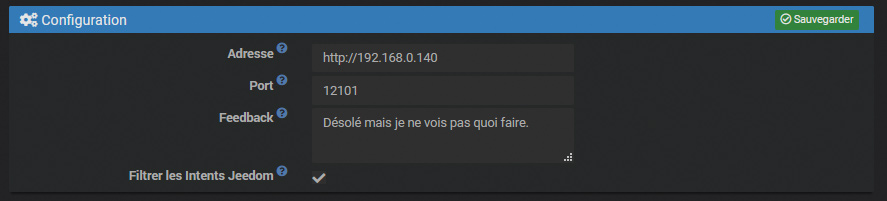
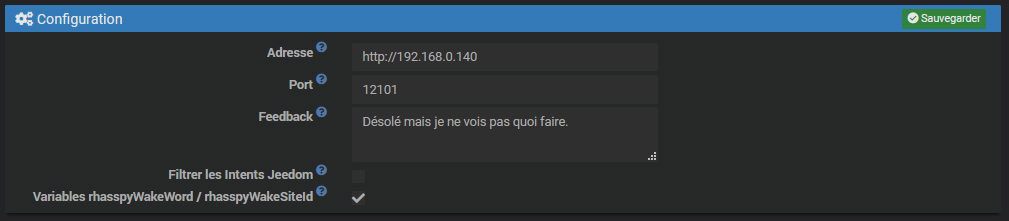
jeerhasspy beta

diff --git a/plugins/jeerhasspy/fr_FR/index.md b/plugins/jeerhasspy/fr_FR/index.md
@@ -17,36 +17,36 @@ Vous devez au préalable avoir un système Rhasspy fonctionnel !
 Après installation du plugin, il vous suffit de l’activer.
 Il apparaîtra alors dans le menu *Plugins > Communication*.
 
-Vous devez d'abord renseigner sur la page de configuration:
+Vous devez alors renseigner, sur la page de configuration du plugin :
 
 {% include lightbox.html src="jeerhasspy/images/config.jpg" data="jeerhasspy" title="Configuration" imgstyle="width:550px;display: block;margin: 0 auto;" %}
 
-
 - Adresse : L'adresse IP de votre Rhasspy (comprenant http:// ou https://).
 - Port : Le Port de votre Rhasspy (par défaut 12101).
-- Feedback : Une phrase que Jeedom dira si il ne trouve pas de scénario correspondant à l'Intent souhaité.
+- Feedback : Une phrase que Rhasspy dira si il ne trouve pas de scénario correspondant à l'Intent souhaité.
 - Filtrer les Intents Jeedom : A l'importation de l'assistant, seuls les Itents donc le nom finit pas *jeedom* seront crées (**TurnOnJeedom**, **LightSetJeedom**, etc).
+- Variables rhasspyWakeWord / rhasspyWakeSiteId : Quand le wakeword est détecté, le plugin renseigne ces deux variables avec le wakewordId et siteId. Vous pouvez alors déclencher un scénario sur `#variable(rhasspyWakeWord)#` pour par exemple couper la musique le temps de votre demande.
 
 
 ## Utilisation
 
-Une fois configuré, il faut une première fois importer l'assistant Rhasspy.
+Une fois le plugin configuré, il faut une première fois importer l'assistant Rhasspy.
 
-A l'important il y a trois options possible:
+A l'importation, il y a trois options possible:
+*Lors de la première importantation, ces options n'ont pas d'incidence*.
 - Conserver toutes les Intentions : Ne supprime aucun Intent, et crée ceux non présent dans Jeedom.
 - Supprimer les Intentions qui ne sont plus dans l'assistant : Supprime seulement les Intents de Jeedom qui ne sont plus dans Rhasspy.
 - Supprimer et recréer toutes les Intentions : Supprime tous les Intents de Jeedom, avant de recréer les Intents présents sur Rhasspy.
 
-
 L'importation de l'assistant va créer :
 
-- Un Device : C'est votre machine Rhasspy, permettant notamment de lancer une commande TTS ou Ask.
-- Vos Intentions : Chaque Intent de votre assistant.
+- Un Device : C'est votre machine Rhasspy, permettant notamment de lancer une commande **TTS** ou **Ask**.
+- Vos Intentions : Chaque Intent présent sur votre assistant Rhasspy.
 
 > Tip
 > Vous pouvez supprimer des intentions de trois façons:
 > - En réimportant votre assistant, suivant l'option choisie (voir ci-dessus).
-> - En utilisant le bouton **Supprimer les intentions**, qui supprimera tous vos Intents actuels.
+> - En utilisant le bouton **Supprimer les intentions**, qui supprimera tous vos Intents actuels du plugin.
 > - Sur une intention, utilisez le bouton **Supprimer**.
 
 En cliquant sur un Device Rhasspy, vous pouvez effectuer un test TTS sur ce device.
@@ -54,6 +54,11 @@ En cliquant sur un Device Rhasspy, vous pouvez effectuer un test TTS sur ce devi
 ## Configuration Rhasspy
 
 Pour que Rhasspy envoie les événements souhaités à Jeedom, vous devez ensuite lui indiquer l'url du plugin, indiquée dans la partie Assistant.
+
+### Intent recognized
+
+Rhasspy envoie directement l'Intent reconnu sur une url (ici, le plugin).
+
 Vous pouvez le faire:
 - Par l'interface de Rhasspy, onglet *Settings*, puis *Intent Handling* : Use a remote HTTP server to handle intents : cochez l'option et renseignez l'url.
 
@@ -67,18 +72,31 @@ Ou manuellement:
 	"handle": {
         "system": "remote",
         "remote": {
-            "url": "http://127.0.0.1:80/core/api/jeeApi.php?plugin=jeerhasspy&apikey=---apikey---&plugin=jeerhasspy&type=jeerhasspy"
+            "url": "http://x.x.x.x:80/core/api/jeeApi.php?plugin=jeerhasspy&apikey=---apikey---&plugin=jeerhasspy&type=jeerhasspy"
         }
-    }
+    },
 
 ```
 
 > Tip
-> Actuellement pour nommer votre device rhasspy, vous devez :
+> Actuellement pour nommer votre device Rhasspy, vous devez :
 > - Sur l'interface de Rhasspy, aller sur l'onglet **Settings**
 > - Cliquer sur MQTT et cocher *Enable MQTT*
 > - Renseigner un nom dans le champ **Site ID**
 > - Décocher *Enable MQTT* si vous ne l'utilisez pas, puis sauver les settings.
+
+### Wakeword detected
+
+Si vous utilisez l'option permettant de renseigner les variables rhasspyWakeWord / rhasspyWakeSiteId sur détection du wakeword, vous devez éditer votre profile Rhasspy. Cette option n'est pas disponible par l'interface de Rhasspy.
+
+Fichier `.config\rhasspy\profiles\fr\profile.json`, ajoutez:
+
+```json
+	"webhooks": {
+		"awake": ["http://x.x.x.x:80/core/api/jeeApi.php?plugin=jeerhasspy&apikey=---apikey---&plugin=jeerhasspy&type=jeerhasspy"]
+	},
+
+```
 
 ## Callback Scénario
 
@@ -153,9 +171,9 @@ Et ainsi de suite ...
 
 Sur chaque device Rhasspy, il y a trois commandes:
 
-- Speak : Permet d'énoncer un texte.
-- dynamic Speak : Permet d'énoncer un texte construit dynamiquement.
-- Ask : Permet d'utiliser la fonction **Ask** de Jeedom.
+- **Speak** : Permet d'énoncer un texte.
+- **dynamic Speak** : Permet d'énoncer un texte construit dynamiquement.
+- **Ask** : Permet d'utiliser la fonction **Ask** de Jeedom.
 
 ### Commande *dynamic Speak*
 

diff --git a/plugins/jeerhasspy/fr_FR/changelog.md b/plugins/jeerhasspy/fr_FR/changelog.md
@@ -15,6 +15,15 @@ Plugin pour le support de l'assistant vocal [Rhasspy](https://rhasspy.readthedoc
 
 >*Remarque : en cas de mise à jour non listée ici, c'est que celle-ci ne comporte que des changements mineurs du type documentation ou corrections de bugs mineurs.*
 
+### 01/01/2020
+- Mise à jour de la [Documentation](index.md).
+- BugFix : Option *Filtrer les Intents Jeedom*.
+- New : Affichage des intentions par groupes, comme les scénarios.
+- New : Ajout d'un bouton sur la configuration des Intentions pour ouvrir le scénario callback dans un autre onglet.
+- New : Variables rhasspyWakeWord / rhasspyWakeSiteId.
+
+*Il faut éditer votre profile rhasspy pour bénéficier de cette fonction, voir [Documentation](index.md).*
+
 ### 28/12/2019
 - New : commande *ask* voir [Documentation](index.md).
 
